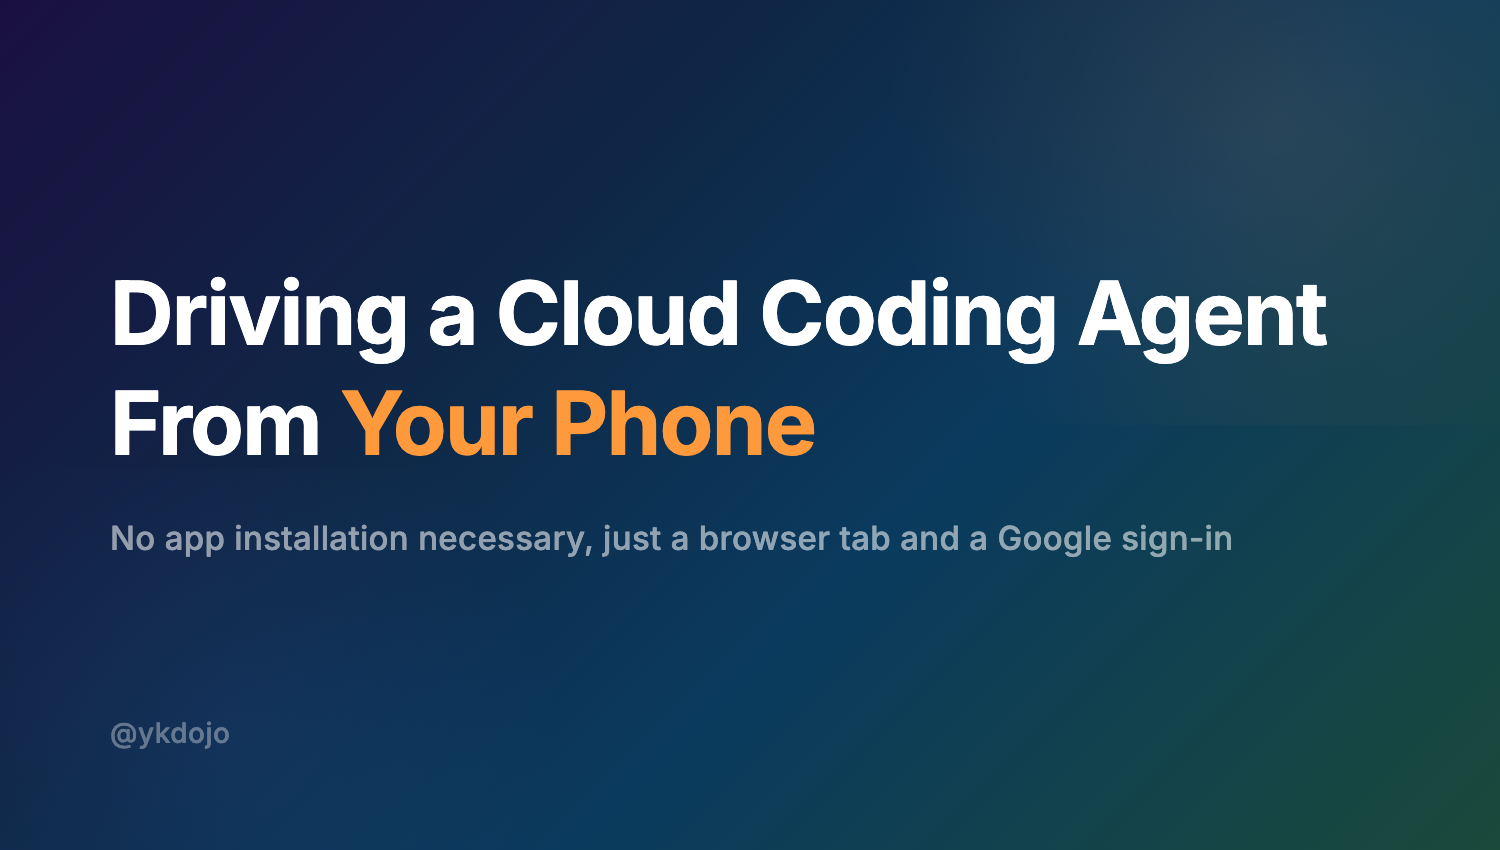
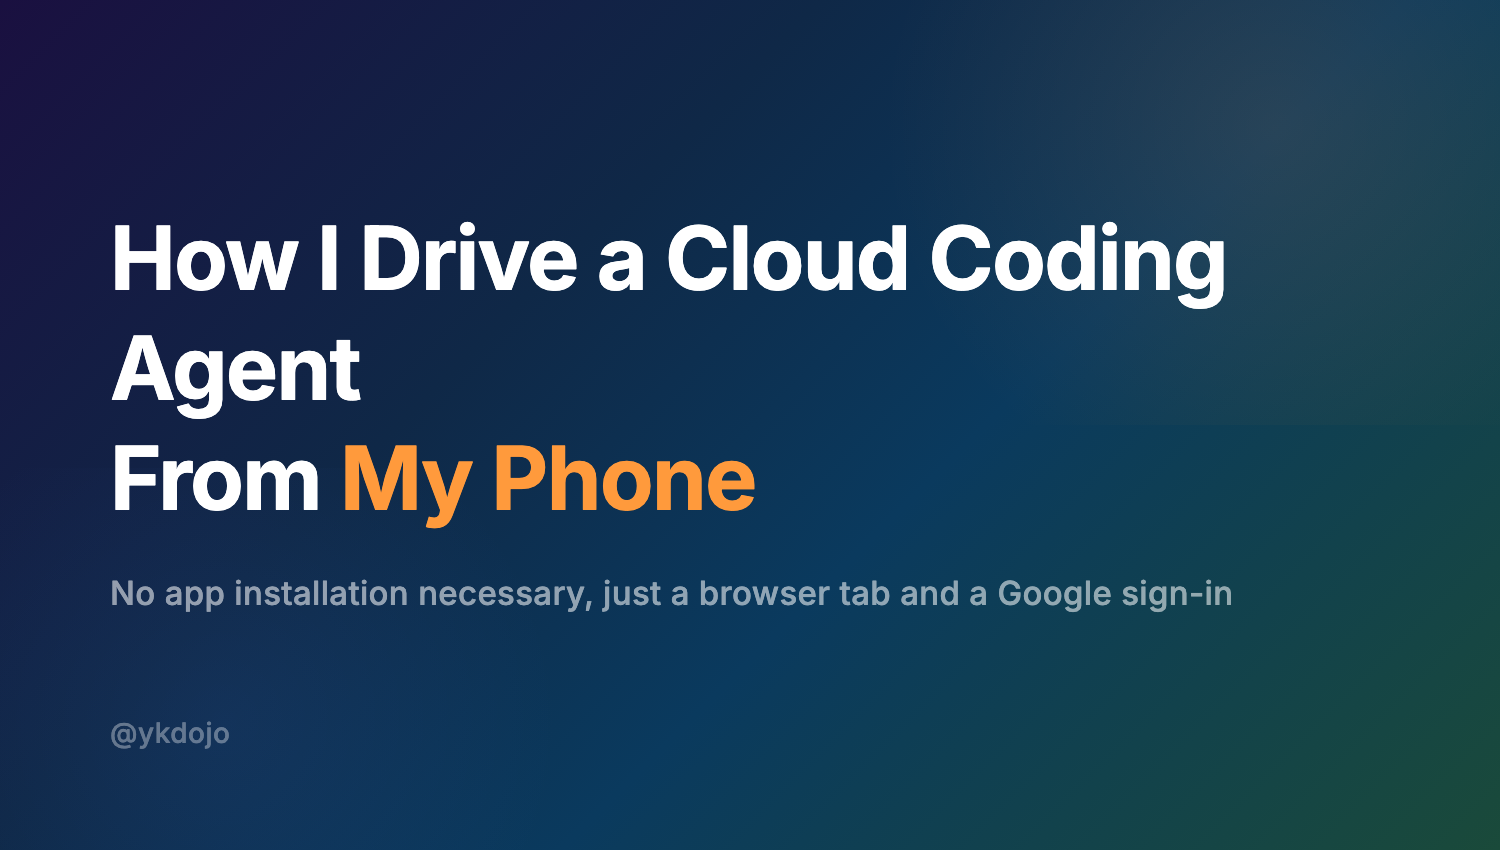
Fluff pass + title: 'How I drive a cloud coding agent from my phone'

Changed region(s): [[0.0613, 0.2447, 0.8893, 0.7341]]

diff --git a/assets/covers/phone-access.html b/assets/covers/phone-access.html
@@ -128,7 +128,7 @@
       <div class="glow-orange"></div>
       <div class="glow-blue"></div>
       <div class="content">
-        <div class="title">Driving a Cloud Coding Agent${sep}From <span class="highlight">Your Phone</span></div>
+        <div class="title">How I Drive a Cloud Coding Agent${sep}From <span class="highlight">My Phone</span></div>
         <div class="subtitle">No app installation necessary, just a browser tab and a Google sign-in</div>
       </div>
       <div class="footer">

diff --git a/posts/phone-access-iap.md b/posts/phone-access-iap.md
@@ -1,4 +1,4 @@
-# Driving a cloud coding agent from your phone (no app installation necessary)
+# How I drive a cloud coding agent from my phone (no app installation necessary)
 
 **tl;dr:** I put Google's Identity-Aware Proxy in front of a Cloud Run service
 running a coding agent in a web terminal. Now I open a URL on my phone, sign in
@@ -38,14 +38,10 @@ min-instances=1 and it never scales down to zero.
 - **IAP** decides who gets in. Only the Google accounts you allowlisted can
   access it.
 - **ttyd** turns the browser into a terminal. The agent is a TUI and the
-  browser speaks HTTP/WebSocket; ttyd is the ~2MB bridge. The alternatives are
-  all worse: sshd needs a client app and keys, code-server is a full IDE for
-  the sake of its terminal panel, and a custom UI needs an agent API that
-  doesn't exist yet.
-- **tmux** makes the session immortal. Phones drop connections constantly
-  (screen lock, app switch). tmux decouples session lifetime from connection
-  lifetime, so you reattach after any drop, and phone and laptop can attach at
-  the same time.
+  browser speaks HTTP/WebSocket; ttyd bridges the two.
+- **tmux** keeps the session alive across drops. Phones drop connections
+  constantly (screen lock, app switch); with tmux you just reattach, and phone
+  and laptop can attach at the same time.
 - **agy** does the work.
 
 ## Setting it up
@@ -75,7 +71,7 @@ After enabling IAP, every request returned a 502 with this body:
 Empty Google Account OAuth client ID(s)/secret(s).
 ```
 
-The docs bury the reason: IAP's Google-managed OAuth client only authenticates
+The reason: IAP's Google-managed OAuth client only authenticates
 users **inside your organization**. A personal project has no organization, so
 there is no client at all, hence "empty". External users need a custom OAuth
 client handed to IAP. Four steps, mostly console clicks:
@@ -124,11 +120,10 @@ One thing stops working: `gcloud run services proxy`, which is how my
 dashboard embeds cloud terminals locally. The proxy isn't a tunnel. It
 forwards requests to the same public URL with an identity token attached, and
 IAP rejects that token: it was minted for the service URL as audience, and IAP
-wants its own OAuth client ID as the audience. Same front door, new bouncer,
-wrong ticket. User accounts can't mint the right ticket with plain gcloud, so
-there's no flag that fixes it.
+wants its own OAuth client ID as the audience. User accounts can't mint that
+kind of token with plain gcloud, so there's no flag that fixes it.
 
-IAP actually has a setting that looks purpose-built for this:
+IAP has a setting for exactly this:
 `programmatic_clients`, an allowlist of extra OAuth client IDs whose tokens
 IAP will accept. Allowlisting gcloud's own client ID would have made the proxy
 work unchanged. The API refused: the allowlisted client must be in the same
